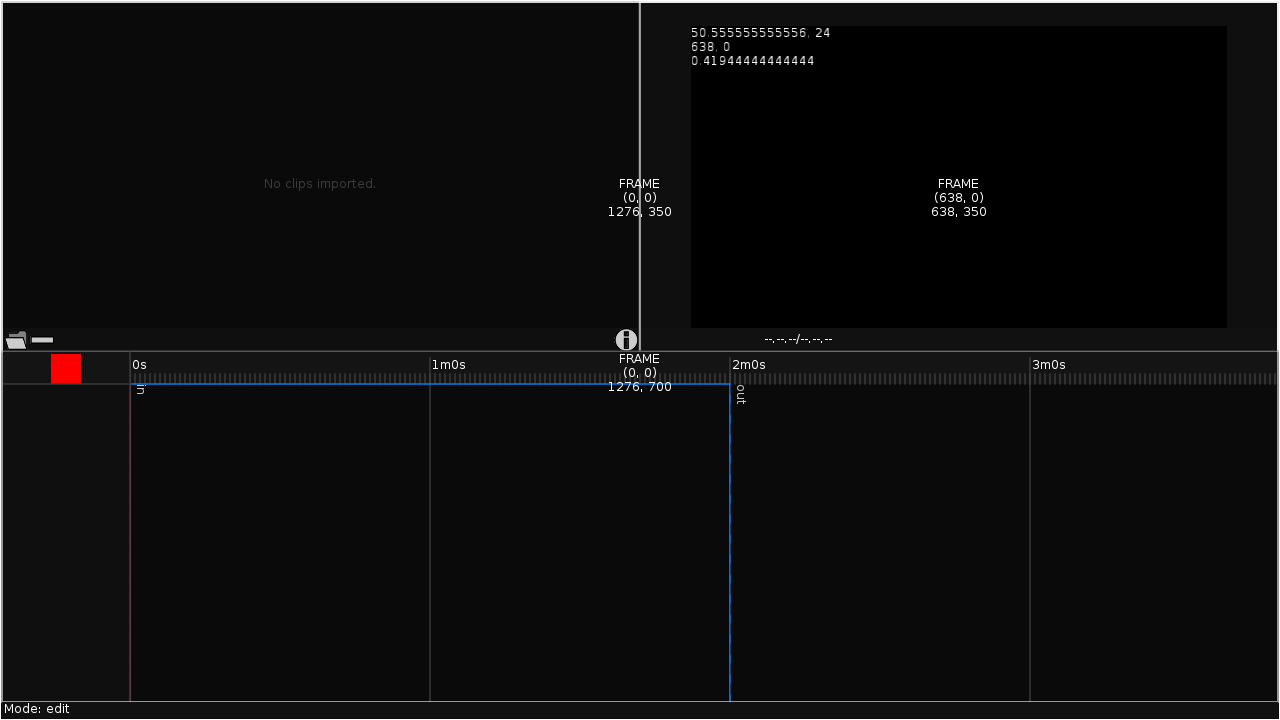
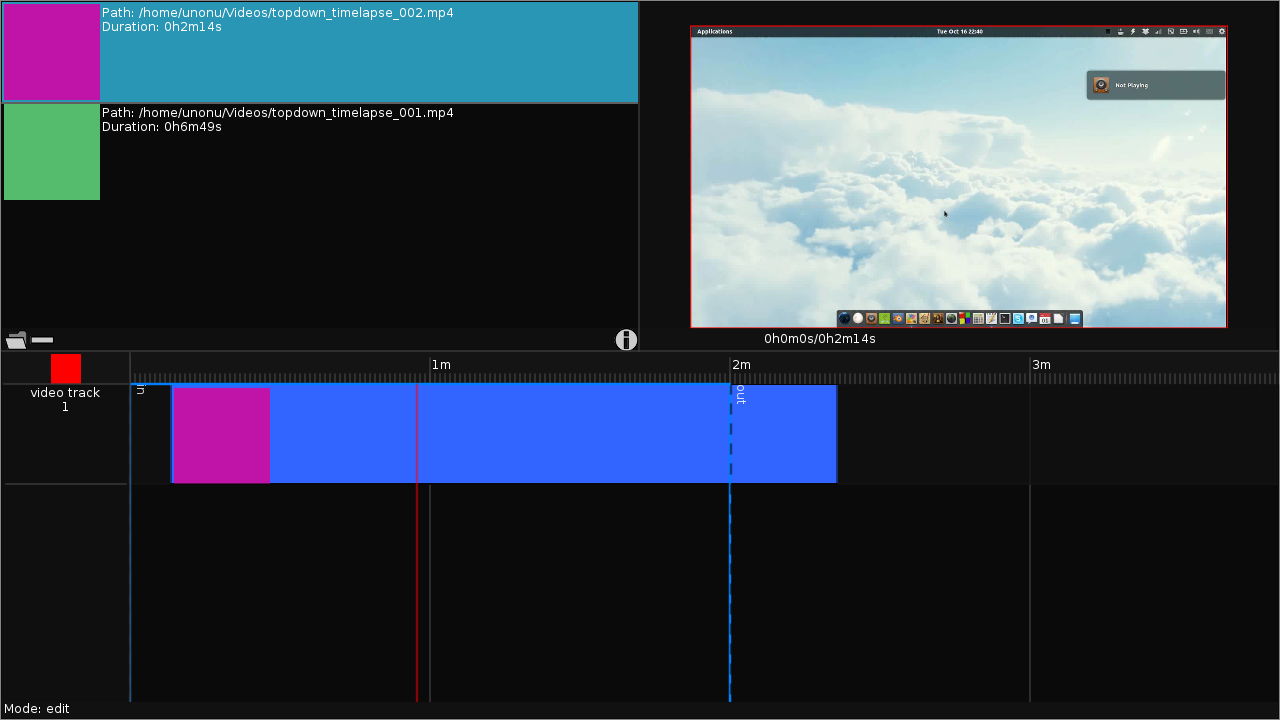
Add libav video demux/coding backend
Okay so I finally fixed native libav integration. Sort of. Videos
(and audios?) can now be imported to the clip list, and the first
frame is set to the VideoStream's data. The next step is streaming
frames in real time to various children streams. Caching too? IDK.

Fixed minor stream length bug

diff --git a/ffi/ffmpeg.h b/ffi/ffmpeg.h
@@ -4,6 +4,8 @@
 // 1 "/usr/include/stdc-predef.h" 1 3 4
 // 1 "<command-line>" 2
 // 1 "ffmpeg_inter.h"
+// 1 "../../libav-12/config.h" 1
+// 2 "ffmpeg_inter.h" 2
 // 1 "../../libav-12/libavutil/avstring.h" 1
 // 24 "../../libav-12/libavutil/avstring.h"
 // 1 "/usr/lib/gcc/x86_64-linux-gnu/5/include/stddef.h" 1 3 4
@@ -130,7 +132,7 @@ const char *av_basename(const char *path);
 const char *av_dirname(char *path);
 // 243 "../../libav-12/libavutil/avstring.h"
 int av_match_name(const char *name, const char *names);
-// 2 "ffmpeg_inter.h" 2
+// 3 "ffmpeg_inter.h" 2
 // 1 "../../libav-12/libavutil/pixdesc.h" 1
 // 25 "../../libav-12/libavutil/pixdesc.h"
 // 1 "/usr/include/inttypes.h" 1 3 4
@@ -680,7 +682,7 @@ const char *av_color_space_name(enum AVColorSpace space);
 
 
 const char *av_chroma_location_name(enum AVChromaLocation location);
-// 3 "ffmpeg_inter.h" 2
+// 4 "ffmpeg_inter.h" 2
 // 1 "../../libav-12/libavformat/avformat.h" 1
 // 256 "../../libav-12/libavformat/avformat.h"
 // 1 "/usr/include/time.h" 1 3 4
@@ -8638,7 +8640,7 @@ const struct AVCodecTag *avformat_get_riff_video_tags(void);
 
 
 const struct AVCodecTag *avformat_get_riff_audio_tags(void);
-// 4 "ffmpeg_inter.h" 2
+// 5 "ffmpeg_inter.h" 2
 // 1 "../../libav-12/libavdevice/avdevice.h" 1
 // 22 "../../libav-12/libavdevice/avdevice.h"
 // 1 "../../libav-12/libavdevice/version.h" 1
@@ -8661,7 +8663,7 @@ const char *avdevice_license(void);
 
 
 void avdevice_register_all(void);
-// 5 "ffmpeg_inter.h" 2
+// 6 "ffmpeg_inter.h" 2
 // 1 "../../libav-12/libswscale/swscale.h" 1
 // 36 "../../libav-12/libswscale/swscale.h"
 // 1 "../../libav-12/libswscale/version.h" 1
@@ -8842,12 +8844,12 @@ void sws_convertPalette8ToPacked24(const uint8_t *src, uint8_t *dst, int num_pix
 
 
 const AVClass *sws_get_class(void);
-// 6 "ffmpeg_inter.h" 2
+// 7 "ffmpeg_inter.h" 2
 // 1 "/usr/include/x86_64-linux-gnu/libavutil/audioconvert.h" 1 3 4
 
 // 1 "/usr/include/x86_64-linux-gnu/libavutil/version.h" 1 3 4
 // 3 "/usr/include/x86_64-linux-gnu/libavutil/audioconvert.h" 2 3 4
-// 7 "ffmpeg_inter.h" 2
+// 8 "ffmpeg_inter.h" 2
 // 1 "../../libav-12/libavutil/colorspace.h" 1
 // 90 "../../libav-12/libavutil/colorspace.h"
 static inline int C_JPEG_TO_CCIR(int y) {
@@ -8856,7 +8858,7 @@ static inline int C_JPEG_TO_CCIR(int y) {
         y = 16;
     return y;
 }
-// 8 "ffmpeg_inter.h" 2
+// 9 "ffmpeg_inter.h" 2
 // 1 "../../libav-12/libavutil/opt.h" 1
 // 33 "../../libav-12/libavutil/opt.h"
 // 1 "../../libav-12/libavutil/log.h" 1
@@ -8986,7 +8988,7 @@ int av_opt_get_q (void *obj, const char *name, int search_flags, AVRational *out
 int av_opt_get_dict_val(void *obj, const char *name, int search_flags, AVDictionary **out_val);
 // 544 "../../libav-12/libavutil/opt.h"
 int av_opt_copy(void *dest, const void *src);
-// 9 "ffmpeg_inter.h" 2
+// 10 "ffmpeg_inter.h" 2
 
 // 1 "../../libav-12/libavcodec/avfft.h" 1
 // 35 "../../libav-12/libavcodec/avfft.h"
@@ -9058,7 +9060,7 @@ enum DCTTransformType {
 DCTContext *av_dct_init(int nbits, enum DCTTransformType type);
 void av_dct_calc(DCTContext *s, FFTSample *data);
 void av_dct_end (DCTContext *s);
-// 11 "ffmpeg_inter.h" 2
+// 12 "ffmpeg_inter.h" 2
 // 1 "../../libav-12/libavfilter/avfilter.h" 1
 // 45 "../../libav-12/libavfilter/avfilter.h"
 // 1 "/usr/lib/gcc/x86_64-linux-gnu/5/include/stddef.h" 1 3 4
@@ -9401,12 +9403,12 @@ int avfilter_graph_parse(AVFilterGraph *graph, const char *filters,
 int avfilter_graph_parse2(AVFilterGraph *graph, const char *filters,
                           AVFilterInOut **inputs,
                           AVFilterInOut **outputs);
-// 12 "ffmpeg_inter.h" 2
+// 13 "ffmpeg_inter.h" 2
 // 1 "../../libav-12/libavfilter/avfiltergraph.h" 1
 // 25 "../../libav-12/libavfilter/avfiltergraph.h"
 // 1 "../../libav-12/libavfilter/avfilter.h" 1
 // 26 "../../libav-12/libavfilter/avfiltergraph.h" 2
-// 13 "ffmpeg_inter.h" 2
+// 14 "ffmpeg_inter.h" 2
 // 1 "../../libav-12/libavfilter/graphparser.c" 1
 // 37 "../../libav-12/libavfilter/graphparser.c"
 static int link_filter(AVFilterContext *src, int srcpad,
@@ -10000,4 +10002,4 @@ int avfilter_graph_parse(AVFilterGraph *graph, const char *filters,
     avfilter_inout_free(&open_outputs);
     return ret;
 }
-// 13 "ffmpeg_inter.h" 2
+// 14 "ffmpeg_inter.h" 2

diff --git a/ffi/imageDataExtra.c b/ffi/imageDataExtra.c
@@ -19,9 +19,9 @@ void setData_24(char* dst, char* src, int w, int h)
 	int i;
 	for (i = 0; i < w*h; i++) {
 		dst[i*4] = src[i*3];
-		dst[i*4 + 1] = src[i*3 + 1];
-		dst[i*4 + 2] = src[i*3 + 2];
-
+		dst[i*4 + 1] = src[i*3+1];
+		dst[i*4 + 2] = src[i*3+2];
+		dst[i*4 + 3] = 255;
 	}
 }
 
@@ -32,4 +32,19 @@ void setData_32(char* dst, char* src, int w, int h)
 	for (i = 0; i < w*h*4; i++)
 		dst[i] = src[i];
 
+}
+
+void avUnwrapFrame(char* dst, char* src, int wrap, int w, int h)
+{
+	int y, x, i, j;
+	for (y=0; y < h; y++) {
+		for (x=0; x < w; x++) {
+			i = ((y*wrap) + x);
+			j = y*h + x;
+			dst[j*4] = src[i];
+			dst[j*4 + 1] = 0;
+			dst[j*4 + 2] = 0;
+			dst[j*4 + 3] = 255;
+		}
+	}
 }

diff --git a/ffi/ffmpeg_inter.h b/ffi/ffmpeg_inter.h
@@ -1,3 +1,4 @@
+#include "config.h"
 #include "libavutil/avstring.h"
 #include "libavutil/pixdesc.h"
 #include "libavformat/avformat.h"
